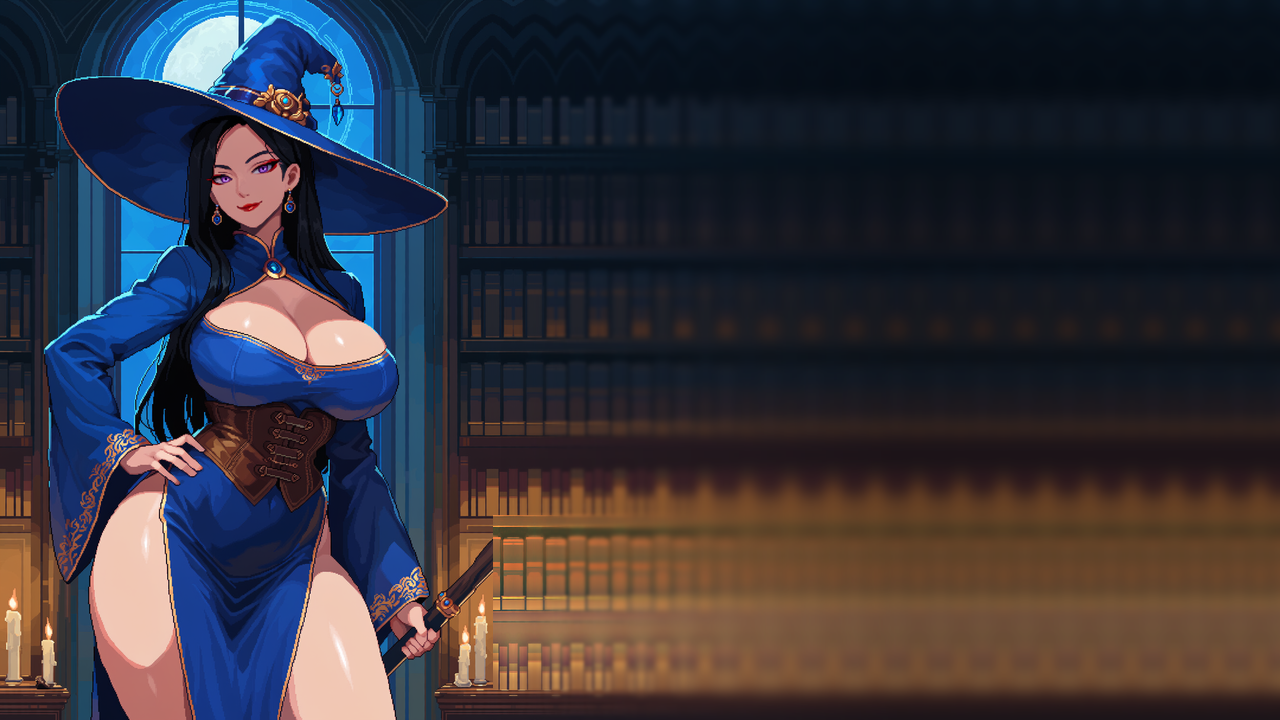
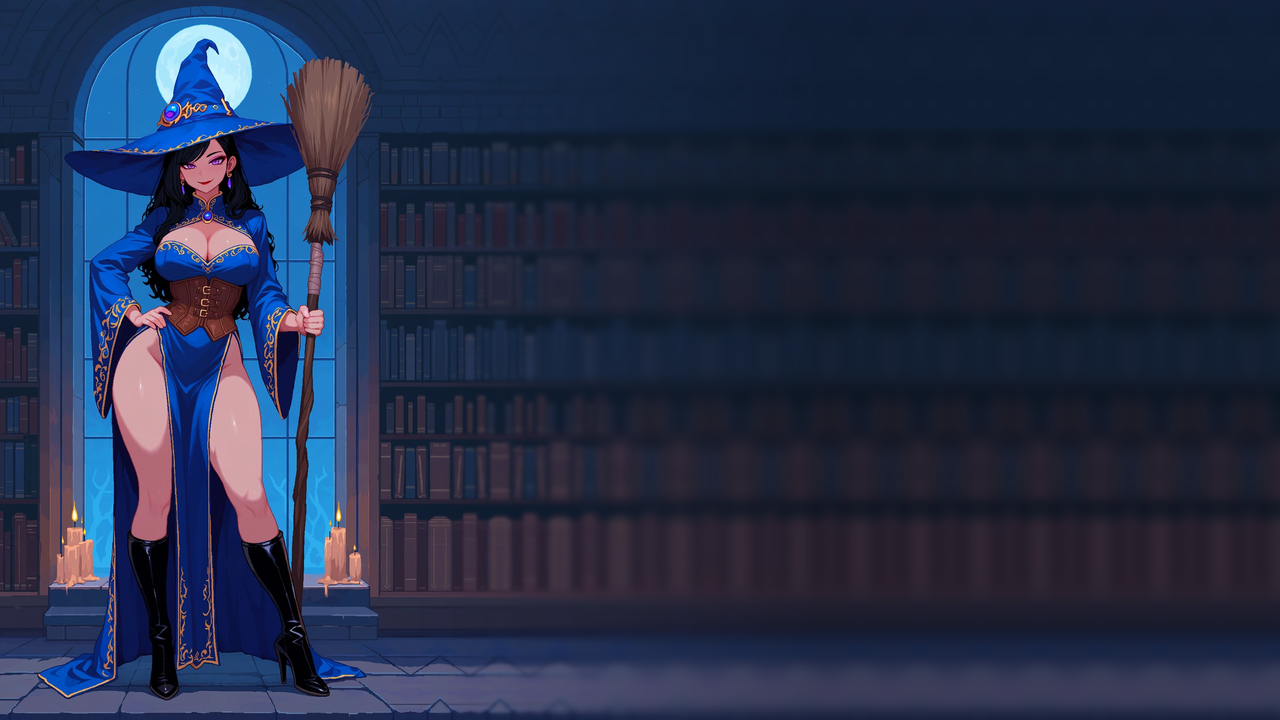
design: 영웅 선택 마법사 배경을 전신 그림으로 — bg-dirge.png 다시 굽기 · build.py 원본 크기 자동 · 얼굴 탭 좌표

diff --git a/src/ui/screens/RunStartScreen.tsx b/src/ui/screens/RunStartScreen.tsx
@@ -42,7 +42,7 @@ const TIER_UI: Record<RunDifficulty, { no: string; color: string }> = {
  * 탭에 보일 얼굴 자리 — 배경 그림(1280×720) 위 좌표. 탭은 그 그림을 `FACE_ZOOM`배로
  * 키워 이 점이 탭 가운데(위에서 46px)에 오게 자른다. 그림을 갈면 여기를 다시 맞춘다.
  */
-const HERO_FACE: Record<string, [number, number]> = { warrior: [240, 140], archer: [215, 212], mage: [243, 172] }
+const HERO_FACE: Record<string, [number, number]> = { warrior: [240, 140], archer: [215, 212], mage: [206, 176] }
 const FACE_ZOOM = 1.2
 
 /** 시작 체력 — 시그니처 유물의 최대 체력까지 반영한 실제 값(`startRun`과 같다). */

diff --git a/docs/design/tools/hero-bg/build.py b/docs/design/tools/hero-bg/build.py
@@ -2,8 +2,9 @@
 The illustration is kept untouched at full screen height on the left. The scene is
 continued to the right by ping-pong mirroring a clean strip from the picture's right
 edge, then blurred progressively (depth of field) and dimmed for the UI.
-usage: python build.py   (expects cairn.png, sable.png, magision.png, all 832x1216 — docs/design/2dImg)
-The mage is drawn from magision.png (2026-11-11) but still saved as bg-dirge.png, the name the game loads."""
+usage: python build.py   (expects cairn.png, sable.png (832x1216) and magision_full.png (768x1344) — docs/design/2dImg)
+The mage is drawn from magision_full.png (2026-11-15, full body — magision.png was cut at the thighs)
+but still saved as bg-dirge.png, the name the game loads. Any source size works: it is fit to 720 high."""
 import numpy as np
 import cv2
 from PIL import Image, ImageFilter
@@ -60,6 +61,9 @@ def strip_witch(a, x0=796, y0=870, y1=1165):
 
 def build(name, strip, keep_first=None, src=None):
     a = load(src or name)
+    H, W = a.shape[:2]
+    S = 720 / H
+    PW = round(W * S)
     seg = np.concatenate([strip[:, ::-1], strip], axis=1)
     need = round((1280 - PW) / S) + 8
     ext = np.concatenate([seg] * (need // seg.shape[1] + 2), axis=1)[:, :need]
@@ -88,7 +92,7 @@ def build(name, strip, keep_first=None, src=None):
 
 
 if __name__ == '__main__':
-    build('dirge', strip_witch(load('magision')), src='magision')
+    build('dirge', strip_simple(load('magision_full'), 712), src='magision_full')
     build('sable', strip_simple(load('sable'), 795, holes=[(650, 700, 795, 832)]))
     build('cairn', strip_knight(load('cairn')), keep_first=(44, (600, 960)))
     im = Image.new('RGB', (1280, 2160))

diff --git a/CLAUDE.md b/CLAUDE.md
@@ -113,7 +113,7 @@ npm run typecheck && npm run check && npm run sim:run 900 -- --sweep --seed=1234
 ## 7. 에셋 규칙
 
 - 게임이 쓰는 그림은 `public/`만. **원본 · 안 쓰는 그림을 `public/`에 두지 않는다**(배포된다).
-- 사용자가 준 원본 일러스트는 **`docs/design/2dImg/`** — **git에 넣는다**(사용자가 사진을 넣고 그걸로 디자인을 만든다) · 배포 안 됨. ⚠ **Claude는 이 폴더를 건드리지 않는다**(2026-11-13 사용자 지정) — 읽어서 굽는 건 되지만 파일을 고치거나 · 옮기거나 · 지우거나 · 새로 넣지 않는다. **마법사는 `magision.png`가 지금 그림**이고 `dirge.png`는 옛 그림이다(굽힌 결과 이름은 그대로 `bg-dirge.png`). 배경 · 아이콘은 `docs/design/tools/`로 굽는다 — 목록은 [docs/design/README.md](docs/design/README.md).
+- 사용자가 준 원본 일러스트는 **`docs/design/2dImg/`** — **git에 넣는다**(사용자가 사진을 넣고 그걸로 디자인을 만든다) · 배포 안 됨. ⚠ **Claude는 이 폴더를 건드리지 않는다**(2026-11-13 사용자 지정) — 읽어서 굽는 건 되지만 파일을 고치거나 · 옮기거나 · 지우거나 · 새로 넣지 않는다. **마법사 선택 배경은 `magision_full.png`(전신 · 768×1344 · 2026-11-15)가 지금 그림**이고 `magision.png`(반신 — 도트 v3의 기준) · `dirge.png`는 옛 그림이다(굽힌 결과 이름은 그대로 `bg-dirge.png`). 배경 · 아이콘은 `docs/design/tools/`로 굽는다 — 목록은 [docs/design/README.md](docs/design/README.md).
 - 서드파티 스프라이트 팩 원본은 `assets-raw/`(**gitignore** — EULA상 커밋 금지), `npm run sprites`로 `public/sprites/`에 굽는다. 리디자인 시트는 `public/redesign/sprites/`.
 - `public/sprites/`에 남은 옛 시트는 리디자인 도트가 없는 몬스터용과 `rat`(미사용 · 원본 없어 보존) · `hero-knight`(⚠ 2026-11-12부터 쓰는 곳 없음 — 지울지는 사용자 결정)뿐이다.
 - 시트 `facesRight`는 **몸이 향한 쪽**(공격 프레임의 타격 방향)으로 판정. 모든 시트에 명시.

diff --git a/docs/PROGRESS.md b/docs/PROGRESS.md
@@ -175,6 +175,7 @@
 
 ## 3. 기록
 
+- 2026-11-15 — **영웅 선택 마법사 배경을 전신으로**(사용자 — "마법사만 전신이 안 나오고 확대된 듯"): 옛 `magision.png`는 허벅지에서 잘린 반신이라 사용자가 준 전신 그림(768×1344 · 빗자루)으로 `heroes/bg-dirge.png`를 다시 구웠다(높이 720 → 그림 폭 411px · 오른쪽은 책장 띠를 이어 흐림). `hero-bg/build.py`는 원본 크기를 그림에서 읽게 고침 · 얼굴 탭 좌표 `mage` 243,172 → 206,176. ⚠ 원본 `2dImg/magision_full.png`는 사용자가 넣어야 한다(Claude는 `2dImg`를 안 건드림).
 - 2026-11-15 — 치유 향유 · 성배 조각 문구를 실제 회복 경로에 맞춤(사용자 지정): "모든 회복 효과(보상 포기 · 이벤트 · 상점)" → "전투 밖 회복(여관 · 이벤트 · 물약)". 수치 · 동작 변경 없음.
 - 2026-11-15 — **카지노 · 막고라 이벤트 시안**(사용자 기획 — `EVENTS.md` 13 · 14절): 카지노 = 딜러 말풍선 → 게임한다 / 거절한다 → 거는 것 셋(200G · 체력 40 · 최대 체력 20) → 동전 애니메이션(앞면 = 딜러 승) → 결과. 막고라 = 관중 서술 + 검투사 말풍선 → 도전한다(2칸 결투장 · 이기면 희귀 유물 + 100G · 지면 죽음) / 포기한다. **검투사 도트** `sprites/gladiator`(96×64 ×3, 6동작 · `index.json`에 추가) · 동전 `ui/events/coin.png` · 도구 `mon_gladiator.py` · `coin/coin.py`. 캔버스 `EventsQ` · `EventScenes` · `Monsters`. 코드는 안 고침.
 - 2026-11-13 — **봉인 시안**(T15 잠긴 슬롯 · 사용자 요청): 기절 · 빙결 턴 칸 = 어둡게 + 사슬 / 얼음 봉인 + 이름 띠, 속박 턴 칸 = 초록 점선 + 덩굴 자물쇠(공격 · 수비는 들어감), 이동 묶음은 이동을 넣을 칸이 없으면 덩굴(또는 기절 · 빙결) 봉인, 세 칸이 다 잠기면 손패 전부 봉인 · "그냥 넘긴다". 그림 `ui/status/seal.png` · `lock.png` · 도구 `tools/seal/seal.py` · 캔버스 `Seal`(②전투). 코드는 안 고침.

diff --git a/docs/design/README.md b/docs/design/README.md
@@ -59,7 +59,7 @@ docs/design/
 
 | 도구 | 하는 일 |
 | --- | --- |
-| `tools/hero-bg/build.py` | 영웅 선택 배경(`cairn` · `sable` · `magision` → `heroes/bg-*.png` — 마법사 결과 이름은 그대로 `bg-dirge.png`) |
+| `tools/hero-bg/build.py` | 영웅 선택 배경(`cairn` · `sable` · `magision_full` → `heroes/bg-*.png` — 마법사 결과 이름은 그대로 `bg-dirge.png` · 원본 크기가 달라도 높이 720에 맞춘다) |
 | `tools/inn-bg/build.py` | 여관 배경 |
 | `tools/event-bg/build.py` · `build_wide.py` · `cover.py` | 이벤트 배경 — 세로 그림을 한쪽에 세우기 · 가로 그림 · 가로 그림 꽉 채우기(1344×768은 화면비가 거의 같다) |
 | `tools/icon/build.py` | 웹 아이콘 마스터(`master-1024.png`, 거래상 얼굴) — `npm run icon`이 줄인다 |
